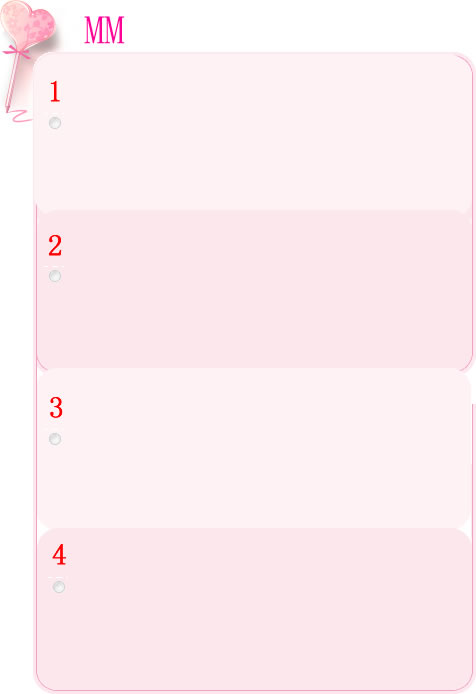
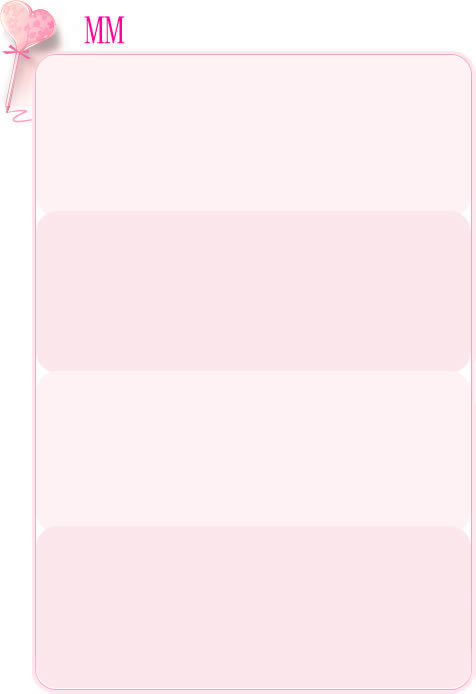
marry

diff --git a/css/server_marry.css b/css/server_marry.css
@@ -9,6 +9,15 @@ body {margin:0px; font-family:宋体; font-size:12px; line-height:0px; color:#00
 
 #t_t{width:995px; height:88px; background:url('/images/server/marry_t_t.jpg') no-repeat; float:left; display:inline;}
 #t_l{width:476px; height:694px; margin-top:10px; background:url('/images/server/marry_t_l.jpg') no-repeat; float:left; display:inline;}
-#t_r{width:500px; height:696px; margin-top:8px; background:url('/images/server/marry_t_r.jpg') no-repeat; float:left; display:inline;}
+#t_l .box{width:450px; height:300px; margin-left:35px; margin-top:55px;  float:left; display:inline;}
+#t_r{width:500px; height:696px; margin-top:8px; margin-left:7px; background:url('/images/server/marry_t_r.jpg') no-repeat; float:left; display:inline;}
+#t_r .box{width:450px; height:300px; margin-left:56px; margin-top:11px;  float:left; display:inline;}
+#t_r #wybm{margin-left:330px; margin-top:10px;}
 .b1{width:995px; height:131px; margin-top:10px;  background:url('/images/server/marry_b1.jpg') no-repeat; float:left; display:inline;}
 .b2{width:995px; height:131px; margin-top:10px; background:url('/images/server/marry_b2.jpg') no-repeat; float:left; display:inline;}
+
+
+.content{ width:450px; height:148px; margin-left:15px; padding-top:10px; float:left; display:inline;}
+.content .radio{width:20px; height:70px; margin-top:60px; margin-right:5px; float:left; display:inline;}
+.content .pic{width:102px; height:142px; float:left; display:inline;}
+.content .info{width:250px; height:142px; padding-left:10px; line-height:17px; overflow:hidden; float:left; display:inline;}

diff --git a/css/news_sub.css b/css/news_sub.css
@@ -5,10 +5,10 @@ body {margin:0px; font-family:宋体; font-size:12px; line-height:0px; color:#00
 .title{width:965px; height:34px; padding-top:6px; padding-left:30px; font-size:18px; color:#FF3300; font-weight:bold; border-bottom:1px dotted #D5DDDC; line-height:40px; float:left; display:inline;}
 .l{width:122px; height:20px; margin-top:10px; margin-left:5px; padding-left:40px; border-right:1px solid #CCCCCC; float:left; display:inline;}
 .t{width:995px; height:40px; border-bottom:1px dotted #D5DDDC; float:left; display:inline;}
-.t_r{width:807px; height:20px; margin-top:10px; margin-left:20px; float:left; display:inline;}
+.t_r{width:807px; height:20px; margin-top:10px; line-height:20px; margin-left:20px; float:left; display:inline;}
 .t_r input{width:360px; height:18px; border:1px solid #B7B7B7; float:left; display:inline;}
-#m{width:995px; height:290px; border-bottom:1px solid #D5DDDC; float:left; display:inline;}
-#m_r{width:807px; height:270px; margin-top:10px; margin-left:20px; float:left; display:inline;}
+#m{width:995px; border-bottom:1px solid #D5DDDC; float:left; display:inline;}
+#m_r{width:807px; margin-top:10px; margin-left:20px; float:left; display:inline;}
 #b{width:995px; height:80px; border-bottom:1px dotted #D5DDDC; float:left; display:inline;}
 #b_button{width:995px; height:30px; margin-top:10px; text-align:center; float:left; display:inline;}
 #b_button button{width:120px; height:24px; line-height:20px; color:#ffffff; border:0px; text-align:center; background:url('/images/news/news_sub_button.jpg') no-repeat;}

diff --git a/server/apply.php b/server/apply.php
@@ -1,0 +1,141 @@
+<?php
+	require_once('../frame.php');
+?>
+<!DOCTYPE HTML PUBLIC "-//W3C//DTD HTML 4.01 Transitional//EN" "http://www.w3c.org/TR/1999/REC-html401-19991224/loose.dtd">
+<html xmlns="http://www.w3.org/1999/xhtml">
+<head>
+	<meta http-equiv=Content-Type content="text/html; charset=utf-8">
+	<meta http-equiv=Content-Language content=zh-cn>
+	<title>SMG-番茄网-婚庆-我要报名</title>
+	<?php
+		css_include_tag('news_sub','top','bottom');
+		use_jquery();
+    ?>
+</head>
+<body>
+<?php
+	require_once('../inc/top.inc.html');
+	validate_form("marry");
+?>
+<div id=ibody>
+	<form id="marry" enctype="multipart/form-data" action="apply.post.php" method="post">
+	<div class=title><?php echo $title; ?></div>
+	<div class=t>
+		<div class=l><img src="/images/news/news_sub_icon.jpg">　姓名</div>
+		<div class=t_r><input type="text" name="marry[name]"  class="required"></div>
+	</div>
+	<div class=t>
+		<div class=l><img src="/images/news/news_sub_icon.jpg">　性别</div>
+		<div class=t_r>
+			<select id=sex name="marry[sex]">
+				<option value="0">请选择</option>
+				<option value="man">男</option>
+				<option value="woman">女</option>
+			</select>
+		</div>
+	</div>
+	<div class=t>
+		<div class=l><img src="/images/news/news_sub_icon.jpg">　生日</div>
+		<div class=t_r>
+			<select id=year name="year">
+				<option value="0">请选择</option>
+				<?php for($i=1990;$i>1950;$i--){
+				?>
+				<option value="<?php echo $i ?>"><?php echo $i ?></option>
+				<?php }  ?>
+			</select>
+			<select id=month name="month">
+				<option value="0">请选择</option>
+				<?php for($i=1;$i<13;$i++){
+				?>
+				<option value="<?php echo $i ?>"><?php echo $i ?></option>
+				<?php }  ?>
+			</select>
+			<select id=day name="day">
+				<option value="0">请选择</option>
+				<?php for($i=1;$i<32;$i++){
+				?>
+				<option value="<?php echo $i ?>"><?php echo $i ?></option>
+				<?php }  ?>
+			</select>
+		</div>
+	</div>
+	<div class=t>
+		<div class=l><img src="/images/news/news_sub_icon.jpg">　身高</div>
+		<div class=t_r>
+			<select id=height name="marry[height]">
+				<option value="0">请选择</option>
+				<?php for($i=140;$i<230;$i++){
+				?>
+				<option value="<?php echo $i ?>"><?php echo $i;?>cm</option>
+				<?php }  ?>
+			</select>
+		</div>
+	</div>
+	<div class=t>
+		<div class=l><img src="/images/news/news_sub_icon.jpg">　学历</div>
+		<div class=t_r><input type="text" name="marry[education]"></div>
+	</div>
+	<div class=t>
+		<div class=l><img src="/images/news/news_sub_icon.jpg">　毕业学校</div>
+		<div class=t_r><input type="text" name="marry[school]"></div>
+	</div>
+	<div class=t>
+		<div class=l><img src="/images/news/news_sub_icon.jpg">　职业</div>
+		<div class=t_r><input type="text" name="marry[job]"></div>
+	</div>
+	<div class=t>
+		<div class=l><img src="/images/news/news_sub_icon.jpg">　收入</div>
+		<div class=t_r><input type="text" name="marry[income]" ></div>
+	</div>
+	<div class=t>
+		<div class=l><img src="/images/news/news_sub_icon.jpg">　恋爱史</div>
+		<div class=t_r><input type="text" name="marry[history]"></div>
+	</div>
+	<div id=m>
+		<div class=l><img src="/images/news/news_sub_icon.jpg">　择偶标准</div>
+		<div id=m_r><textarea style="width:740px; height:30px; " name="marry[request]" class="required"></textarea></div>
+	</div>
+	<div class=title><?php echo $title; ?></div>
+	<div id=b>
+		<div class=l><img src="/images/news/news_sub_icon.jpg">　选择图片</div>
+		<div class=t_r>
+			<input type="file" name="image" id="image" class="required">
+		</div>
+	</div>
+	<div id=b_button>
+			<button id="button_submit">提　交</button>
+	</div>
+	</form>
+</div>
+<? require_once('../inc/bottom.inc.php');?>
+
+</body>
+</html>
+
+<script>
+	$("#button_submit").click(function(){
+		if($("#sex").attr('value')=='0'){
+			alert('请选择性别！');
+			return false;
+		}
+		if($("#year").attr('value')=='0'){
+			alert('请选择生日！');
+			return false;
+		}
+		if($("#month").attr('value')=='0'){
+			alert('请选择生日！');
+			return false;
+		}
+		if($("#day").attr('value')=='0'){
+			alert('请选择生日！');
+			return false;
+		}
+		if($("#height").attr('value')=='0'){
+			alert('请选择身高！');
+			return false;
+		}
+		
+		$("#marry").submit();
+	});
+</script>

diff --git a/inc/answer_right.inc.php b/inc/answer_right.inc.php
@@ -3,45 +3,70 @@
 			<div class=t>个人排行榜</div>
 			<div class=content>
 				<div class=title><div class=name>姓名</div><div class=score>分数</div></div>
-				<?php for($i=0;$i<5;$i++){?>
+				<?php 
+					$db = get_db();
+					$sql = 'select nick_name,point from smg_question_record order by point desc limit 5';
+					$records = $db->query($sql);
+					$count = count($records);
+					for($i=0;$i<$count;$i++){
+				?>
 				<div class=context>
-					<div class=name>我是流氓</div><div class=score>100</div>
+					<div class=name><?php echo $records[$i]->nick_name; ?></div><div class=score><?php echo $records[$i]->point; ?></div>
 				</div>
 				<?php } ?>
 			</div>
 			<div class=t>部门排行榜</div>
 			<div class=content>
 				<div class=title><div class=name>部门</div><div class=score>总分</div></div>
-				<?php for($i=0;$i<5;$i++){?>
+				<?php 
+					$sql = 'select sum(t1.point) as point,t2.name as name from smg_question_record t1 join smg_dept t2 on t1.dept_id=t2.id group by t1.dept_id order by sum(t1.point) desc limit 5';
+					$records = $db->query($sql);
+					$count = count($records);
+					for($i=0;$i<$count;$i++){
+				?>
 				<div class=context>
-					<div class=name>我是流氓</div><div class=score>100</div>
+					<div class=name><?php echo $records[$i]->name; ?></div><div class=score><?php echo $records[$i]->point; ?></div>
 				</div>
 				<?php } ?>
 			</div>
 			<div class=t>部门每周排行榜</div>
 			<div class=content>
 				<div class=title><div class=name>部门</div><div class=score>得分</div></div>
-				<?php for($i=0;$i<5;$i++){?>
+				<?php 
+					$sql = 'select sum(t1.point) as point,t2.name as name from smg_question_record t1 join smg_dept t2 on t1.dept_id=t2.id where week(t1.created_at)=week("'.date("Y-m-d").'") group by t1.dept_id order by sum(t1.point) desc limit 5';
+					$records = $db->query($sql);
+					$count = count($records);
+					for($i=0;$i<$count;$i++){
+				?>
 				<div class=context>
-					<div class=name>我是流氓</div><div class=score>100</div>
+					<div class=name><?php echo $records[$i]->name; ?></div><div class=score><?php echo $records[$i]->point; ?></div>
 				</div>
 				<?php } ?>
 			</div>
 			<div class=t>部门参与人数</div>
 			<div class=content>
 				<div class=title><div class=name>部门</div><div class=score>人数</div></div>
-				<?php for($i=0;$i<5;$i++){?>
+				<?php 
+					$sql = 'select count(t1.point) as count,t2.name as name from smg_question_record t1 join smg_dept t2 on t1.dept_id=t2.id group by t1.dept_id order by sum(t1.point) desc limit 5';
+					$records = $db->query($sql);
+					$count = count($records);
+					for($i=0;$i<$count;$i++){
+				?>
 				<div class=context>
-					<div class=name>我是流氓</div><div class=score>100</div>
+					<div class=name><?php echo $records[$i]->name; ?></div><div class=score><?php echo $records[$i]->count; ?></div>
 				</div>
 				<?php } ?>
 			</div>
 			<div class=t>部门每周参与人数</div>
 			<div class=content>
-				<div class=title><div class=name>部门</div><div class=score>人数</div></div>
-				<?php for($i=0;$i<5;$i++){?>
+				<?php 
+					$sql = 'select count(t1.point) as count,t2.name as name from smg_question_record t1 join smg_dept t2 on t1.dept_id=t2.id where week(t1.created_at)=week("'.date("Y-m-d").'") group by t1.dept_id order by sum(t1.point) desc limit 5';
+					$records = $db->query($sql);
+					$count = count($records);
+					for($i=0;$i<$count;$i++){
+				?>
 				<div class=context>
-					<div class=name>我是流氓</div><div class=score>100</div>
+					<div class=name><?php echo $records[$i]->name; ?></div><div class=score><?php echo $records[$i]->count; ?></div>
 				</div>
 				<?php } ?>
 			</div>

diff --git a/server/marry.php b/server/marry.php
@@ -18,8 +18,61 @@
 <div id=ibody>
 	<div id=ibody_top>
 		<div id=t_t></div>
-		<div id=t_l></div>
-		<div id=t_r></div>
+		<div id=t_l>
+			<div class=box>
+				<?php 
+					$db = get_db();
+					$sql = 'select * from smg_marry where sex="woman"';
+					$records = $db->query($sql);
+					$count = count($records);
+					for($i=0;$i<$count;$i++){
+				?>
+				<div class=content>
+					<div class=radio><input type="radio" name="woman_choose" value="<?php echo $i+1; ?>"></div>
+					<div class=pic><img src="<?php echo $records[$i]->photo;?>" width="102" height="142" border="0"></div>
+					<div class=info>
+					姓名：<?php echo $records[$i]->name; ?>&nbsp;
+					出生年份：<?php echo substr($records[$i]->birthday, 0, 4); ?>&nbsp;
+					身高：<?php echo $records[$i]->height; ?></br>
+					学历：<?php echo $records[$i]->education; ?>&nbsp;
+					毕业学校：<?php echo $records[$i]->school; ?></br>
+					职业：<?php echo $records[$i]->job; ?>&nbsp;
+					收入：<?php echo $records[$i]->income; ?></br>
+					恋爱史：<?php echo $records[$i]->history; ?></br>
+					择偶标准：<?php echo $records[$i]->request; ?>
+					</div>
+				</div>
+				<?php } ?>
+			</div>
+		</div>
+		<div id=t_r>
+			<div id=wybm><a href="apply.php" target="_blank"><img src="/images/server/wybm.gif" border=0></a></div>
+			<div class=box>
+				<?php 
+					$db = get_db();
+					$sql = 'select * from smg_marry where sex="man"';
+					$records = $db->query($sql);
+					$count = count($records);
+					for($i=0;$i<$count;$i++){
+				?>
+				<div class=content>
+					<div class=radio><input type="radio" name="man_choose" value="<?php echo $i+1; ?>"></div>
+					<div class=pic><img src="<?php echo $records[$i]->photo;?>" width="102" height="142" border="0"></div>
+					<div class=info>
+					姓名：<?php echo $records[$i]->name; ?>&nbsp;
+					出生年份：<?php echo substr($records[$i]->birthday, 0, 4); ?>&nbsp;
+					身高：<?php echo $records[$i]->height; ?></br>
+					学历：<?php echo $records[$i]->education; ?>&nbsp;
+					毕业学校：<?php echo $records[$i]->school; ?></br>
+					职业：<?php echo $records[$i]->job; ?>&nbsp;
+					收入：<?php echo $records[$i]->income; ?></br>
+					恋爱史：<?php echo $records[$i]->history; ?></br>
+					择偶标准：<?php echo $records[$i]->request; ?>
+					</div>
+				</div>
+				<?php } ?>
+			</div>
+		</div>
 	</div>
 	<div id=ibody_middle></div>
 	<div id=ibody_line></div>

diff --git a/server/apply.post.php b/server/apply.post.php
@@ -1,0 +1,23 @@
+<?php
+    require_once('../frame.php');
+	
+	$marry = new table_class('smg_marry');
+	
+	$marry->update_attributes($_POST['marry'],false);
+	$marry->birthday = $_POST['year'].'-'.$_POST['month'].'-'.$_POST['day'];
+	if($_FILES['image']['name']!=''){
+		$upload = new upload_file_class();
+		$upload->save_dir = "/upload/images/";
+		$img = $upload->handle('image','filter_pic');
+		
+		
+		if($img === false){
+			alert('上传文件失败 !');
+			redirect($_SERVER['HTTP_REFERER']);
+		}
+		$marry->photo = "/upload/images/" .$img;
+	}
+	$marry->save();
+	
+	redirect('marry.php');
+?>

diff --git a/admin/picture/picture.post.php b/admin/picture/picture.post.php
@@ -1,7 +1,9 @@
 <?php
 	require_once "../../frame.php";
 	$smg_image = new smg_images_class();
-	$smg_image->find($_POST['id']);
+	if($_POST['id']!=''){
+		$smg_image->find($_POST['id']);
+	}
 	//var_dump($_POST);
 	//如果在编辑的情况下没有上传图片则不进入文件上传的过程
 	if($_POST['type']!=="edit"||$_FILES['image']['name']!=null){

diff --git a/answer/result.php b/answer/result.php
@@ -47,7 +47,7 @@
 							$tot = $tot/$record->question_count;
 							$tot = substr($tot, 0, 2).'%';
 							echo $tot;
-						?>
+						?></font>
 					</div>
 				</div>
 				<div style="width:400px;height:40px;">
